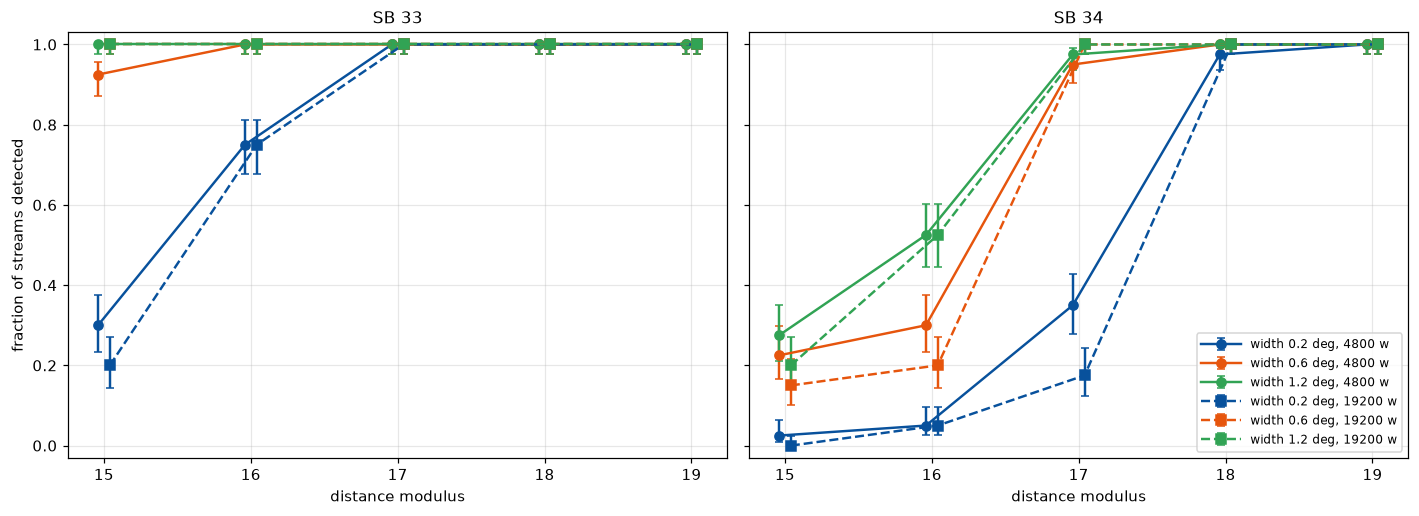
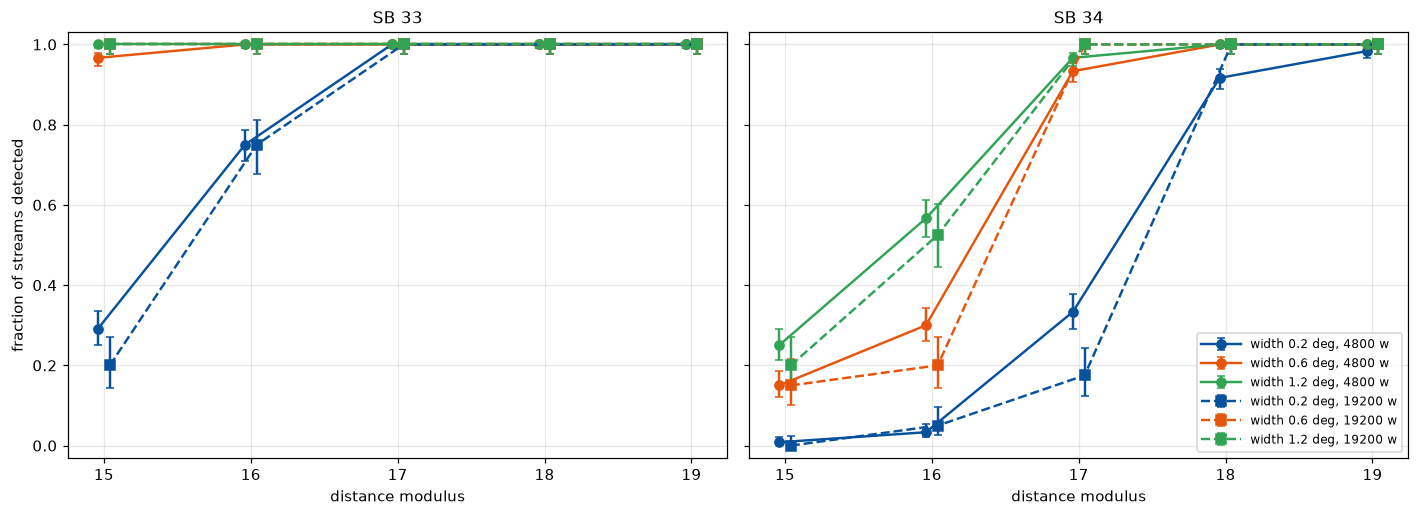
Stream parameters: six quick seeds, and the spread between trainings
The quick models now have the six seeds the protocol asks for. The
conclusions hold: at fixed surface brightness closer and narrower streams
are harder (SB 34, 0.2 degrees: 1% detected at distance modulus 15, 98% at
19), and 19200 training windows bring nothing over 4800 (77.5% against
78.2% over the SB 33-34 cells, p = 0.63).

Six seeds also show what two could not: in the cells that are neither
always nor never detected, retraining the same configuration changes the
answer enormously — at SB 34, distance modulus 16 and 1.2 degrees, from 5%
to 100% across the six trainings. New figure with one point per trained
model, and the pooled numbers now carry their range.

diff --git a/scripts/experiments/stream_parameters/figures.py b/scripts/experiments/stream_parameters/figures.py
@@ -3,6 +3,9 @@
   detection.png   fraction of streams detected against distance modulus, one
                   panel per surface brightness, one colour per width, quick
                   (4800-window) and long (19200-window) models
+  training_spread.png  one point per trained model, at surface brightness 34:
+                  how much the same configuration varies from training to
+                  training
   contrast        with --contrast: the stream's selected-star density against
                   the background's in the matched filter, per distance, at
                   fixed surface brightness and angular size (builds the sky,
@@ -96,6 +99,41 @@ def figure_detection(pooled):
     plt.close(fig)
 
 
+def figure_training_spread(matched):
+    """One point per trained model, SB 34: the spread between trainings."""
+    quick = matched[(matched.windows == 4800) & (matched.richness == 34.0)]
+    fig, ax = plt.subplots(figsize=(8.5, 5))
+    for width, group in quick.groupby("width"):
+        offset = {0.2: -0.12, 0.6: 0.0, 1.2: 0.12}[width]
+        for dm, cell in group.groupby("distance_modulus"):
+            x = dm + offset
+            ax.plot(
+                np.full(len(cell), x),
+                cell["detection_fraction"],
+                "o",
+                color=WIDTH_COLOURS[width],
+                alpha=0.55,
+                ms=6,
+            )
+            ax.plot(
+                [x - 0.05, x + 0.05],
+                [cell["detection_fraction"].mean()] * 2,
+                color=WIDTH_COLOURS[width],
+                lw=2.5,
+            )
+        ax.plot([], [], "o", color=WIDTH_COLOURS[width], label=f"width {width:g} deg")
+    ax.set_xlabel("distance modulus")
+    ax.set_ylabel("fraction of streams detected")
+    ax.set_xticks([15, 16, 17, 18, 19])
+    ax.set_ylim(-0.03, 1.03)
+    ax.grid(alpha=0.3)
+    ax.legend(fontsize=9)
+    ax.set_title("SB 34: one point per trained model (6 x 4800 windows)", fontsize=11)
+    fig.tight_layout()
+    fig.savefig(FIGURES / "training_spread.png", dpi=110, bbox_inches="tight")
+    plt.close(fig)
+
+
 def contrast_table():
     """Selected-star density of a stream against the background's, per distance.
 
@@ -159,6 +197,7 @@ def main(contrast):
     results = pd.read_pickle(DATA / "results.pkl")
     pooled, matched = pooled_detection(results)
     figure_detection(pooled)
+    figure_training_spread(matched)
     pd.set_option("display.width", 200)
     table = pooled[pooled.richness >= 33].pivot_table(
         index=["richness", "distance_modulus"],
@@ -167,6 +206,19 @@ def main(contrast):
     )
     print("== fraction detected, at the first threshold above the background floor")
     print((100 * table).round(0).to_string())
+    spread = (
+        matched[matched.windows == 4800]
+        .groupby(["richness", "distance_modulus", "width"])["detection_fraction"]
+        .agg(["min", "max", "std"])
+    )
+    print("\n== spread between the 6 quick trainings (cells that are not 0 or 1)")
+    moving = spread[(spread["max"] > 0) & (spread["min"] < 1)]
+    print(
+        (100 * moving[["min", "max"]])
+        .round(0)
+        .join(moving[["std"]].round(2))
+        .to_string()
+    )
     print("\n== stream-free density actually reached (target 1e-3)")
     print(
         matched.groupby("windows")["background_density"]

diff --git a/docs/source/experiments/stream_parameters.md b/docs/source/experiments/stream_parameters.md
@@ -4,10 +4,9 @@
 of the known DES streams — distance, width, length, surface brightness,
 distance gradient — by a model that is told which trial distance to look at?
 
-**Status.** First results: two quick (4800-window) and two long
-(19200-window) models, each scored at the stream's known position on a grid of
-distance × width × surface brightness. The four other seeds the protocol asks
-for are not run yet.
+**Status.** First results: six quick (4800-window) models, as the protocol
+asks, and two long (19200-window) ones, each scored at the stream's known
+position on a grid of distance × width × surface brightness.
 
 This page records every choice made for this experiment, with the reason for
 it. Where a choice was made by the project lead rather than derived from a
@@ -229,11 +228,12 @@ neighbours sooner, which a later check should cover.
 
 ## First results
 
-Two models of each length (seeds 42 and 43), each scored on 20 injected
-streams per grid point, on a background none of them saw: distance modulus
-15, 16, 17, 18 and 19 × width 0.2, 0.6 and 1.2 degrees × surface brightness 32,
-33 and 34, length 15 degrees, no gradient, each stream queried at its own
-distance. Every stream at SB 32 is detected, so the figure shows SB 33 and 34.
+Six quick models (seeds 42-47) and two long ones (42-43), each scored on 20
+injected streams per grid point, on a background none of them saw: distance
+modulus 15, 16, 17, 18 and 19 × width 0.2, 0.6 and 1.2 degrees × surface
+brightness 32, 33 and 34, length 15 degrees, no gradient, each stream queried
+at its own distance. Every stream at SB 32 is detected, so the figure shows
+SB 33 and 34.
 
 ```{image} figures/stream_parameters/detection.png
 :alt: Fraction of streams detected against distance modulus, for three widths, at surface brightness 33 and 34, for quick and long models
@@ -241,15 +241,16 @@ distance. Every stream at SB 32 is detected, so the figure shows SB 33 and 34.
 ```
 
 *Fraction of injected streams detected at their known position, pooled over
-the two trainings of each length (40 streams per point), with Wilson 68%
-bars. Solid: 4800 training windows; dashed: 19200. Each model is thresholded
+the trainings of each length (120 streams per point for the quick models, 40
+for the long ones), with Wilson 68% bars. Solid: 4800 training windows; dashed: 19200. Each model is thresholded
 just above its own background level (see "The operating point" below).*
 
 ### At fixed surface brightness, closer streams are harder
 
 **Statement.** Detection rises with distance: at SB 34 and a width of 0.2
-degrees, from 2% of streams at distance modulus 15 to 100% at 19. This is a
-property of the streams, not of the model.
+degrees, from 1% of streams at distance modulus 15 to 98% at 19 (six
+trainings, 120 streams per point). This is a property of the streams, not of
+the model.
 
 Surface brightness is light per unit solid angle. A stream of given surface
 brightness, angular width and angular length is physically larger the farther
@@ -271,20 +272,22 @@ The contrast rises five times from distance modulus 15 to 19. This agrees with
 the DES 2018 streams: the faintest found (Elqui and Chenab, SB 34.1-34.3) are
 the most distant, at 40-50 kpc. **The hard case for this model is a close,
 narrow, faint stream**: at distance modulus 15-16, 0.2 degrees wide and SB 34,
-2-5% are detected. Among the DES streams, Wambelong (distance modulus 15.9,
+1-3% are detected. Among the DES streams, Wambelong (distance modulus 15.9,
 0.40 degrees wide, SB 33.7) is the closest to that regime.
 
 **Wider streams are easier at the same surface brightness** for a similar
 reason: the density per pixel is the same, but a wider stream covers more
 pixels, so it holds more stars in total and gives the network more to add up.
-At SB 34 and distance modulus 16: 5% at 0.2 degrees, 30% at 0.6, 52% at 1.2.
+At SB 34 and distance modulus 16: 3% at 0.2 degrees, 30% at 0.6, 57% at 1.2.
 
 ### Training longer brings nothing here
 
 **Statement.** The 19200-window models detect no more streams than the
-4800-window ones: over every SB 33 and 34 cell, 930 of 1200 streams against 945
-(Fisher p = 0.49), and at a fixed threshold of 0.5, 878 against 879. In the
-hardest cells the long models are, if anything, slightly lower. Their
+4800-window ones: over every SB 33 and 34 cell, 930 of 1200 streams (2
+trainings) against 2814 of 3600 (6 trainings), that is 77.5% against 78.2%,
+Fisher p = 0.63; on the two seeds they share, 77.5% against 78.8%. At a fixed
+threshold of 0.5, 878 against 879 of 1200 on those seeds. In the hardest cells
+the long models are, if anything, slightly lower. Their
 validation loss is clearly better (about 0.39 against 0.46), so they fit the
 label better without finding more streams.
 
@@ -294,6 +297,35 @@ per-window normalization, a much wider range of streams, and the
 query-distance input — so the two results are not in contradiction, but this
 one does not say which change removed the gain. For now it supports exploring
 with the quick model (two-tier policy), at a quarter of the training time.
+
+### Between trainings, the transition cells swing wildly
+
+**Statement.** Where a cell is neither always nor never detected, the same
+configuration retrained gives very different answers: at SB 34, distance
+modulus 16 and a width of 1.2 degrees, the six trainings range from **5% to
+100%** (pooled 57%).
+
+```{image} figures/stream_parameters/training_spread.png
+:alt: One point per trained model at surface brightness 34, against distance modulus, for three widths
+:width: 100%
+```
+
+*One point per trained model (six 4800-window trainings), each scored on its
+own 20 streams; the bar is their mean. Points are offset horizontally by
+width.*
+
+| SB 34 | 0.2 deg | 0.6 deg | 1.2 deg |
+|---|---|---|---|
+| distance modulus 15 | 1% (0-5) | 15% (5-40) | 25% (5-50) |
+| 16 | 3% (0-10) | 30% (0-75) | 57% (5-100) |
+| 17 | 33% (5-60) | 93% (70-100) | 97% (85-100) |
+| 18 | 92% (55-100) | 100% | 100% |
+
+Pooled percentage, with the range over the six trainings in brackets. Away
+from the transition every training agrees; inside it, a single model tells you
+almost nothing, which is why the numbers on this page are pooled over six. The
+same effect dominated {doc}`hyperparameters`, and it is the reason that
+experiment recommends comparing configurations only with several seeds each.
 
 ### The operating point
 
@@ -312,7 +344,7 @@ stream-free sky.
 
 ### Caveats
 
-- Two trainings per length, not the six of the protocol.
+- Six trainings for the quick models, two for the long ones.
 - One length (15 degrees) and no distance gradient in the evaluation, although
   training covers 4-30 degrees and gradients.
 - Detection at the stream's known position, queried at its own distance.

diff --git a/docs/source/experiments/index.md b/docs/source/experiments/index.md
@@ -170,7 +170,7 @@ it moves the results.
 | Threshold tuning | Which probability threshold for the final maps, and does it hold on streams and backgrounds not used to choose it? | planned |
 | {doc}`hyperparameters` | Which training length, training surface brightness range, network depth and width, learning rate and batch size detect most streams at SB 33 and some at SB 34, with a clean background? | done for training range, length, network size, averaging and the decoy channel: one model trained on SB 32-34.5 with 19200 windows (4800 while exploring); learning rate and batch size not run yet |
 | {doc}`two_streams` | Does a model trained on one stream per window still find a stream with a neighbour nearby? | done: yes at 2 degrees or more and for crossing streams; a faint stream within about 1 degree of a brighter parallel one is suppressed |
-| {doc}`stream_parameters` | Detection across the range of the known DES streams (distance, width, length, surface brightness, distance gradient), with a model queried at one trial distance and shown its two neighbours. | first results (2 seeds per length): at fixed surface brightness closer and narrower streams are harder; 19200 training windows bring nothing over 4800 here |
+| {doc}`stream_parameters` | Detection across the range of the known DES streams (distance, width, length, surface brightness, distance gradient), with a model queried at one trial distance and shown its two neighbours. | first results (6 quick seeds, 2 long): at fixed surface brightness closer and narrower streams are harder; 19200 training windows bring nothing over 4800 here; transition cells swing from 5% to 100% between trainings |
 | Generic matched filter | One filter swept over trial distance modulus, with the filter's parameters (age, metallicity, trial distance) given to the network as inputs. | planned |
 | Stream populations | Several streams injected in the footprint; per-stream (object-level) metrics next to the per-pixel ones. | planned |
 | Survey-wide contamination | False alarms over a fully tiled footprint, rather than around one injected stream. | planned |
